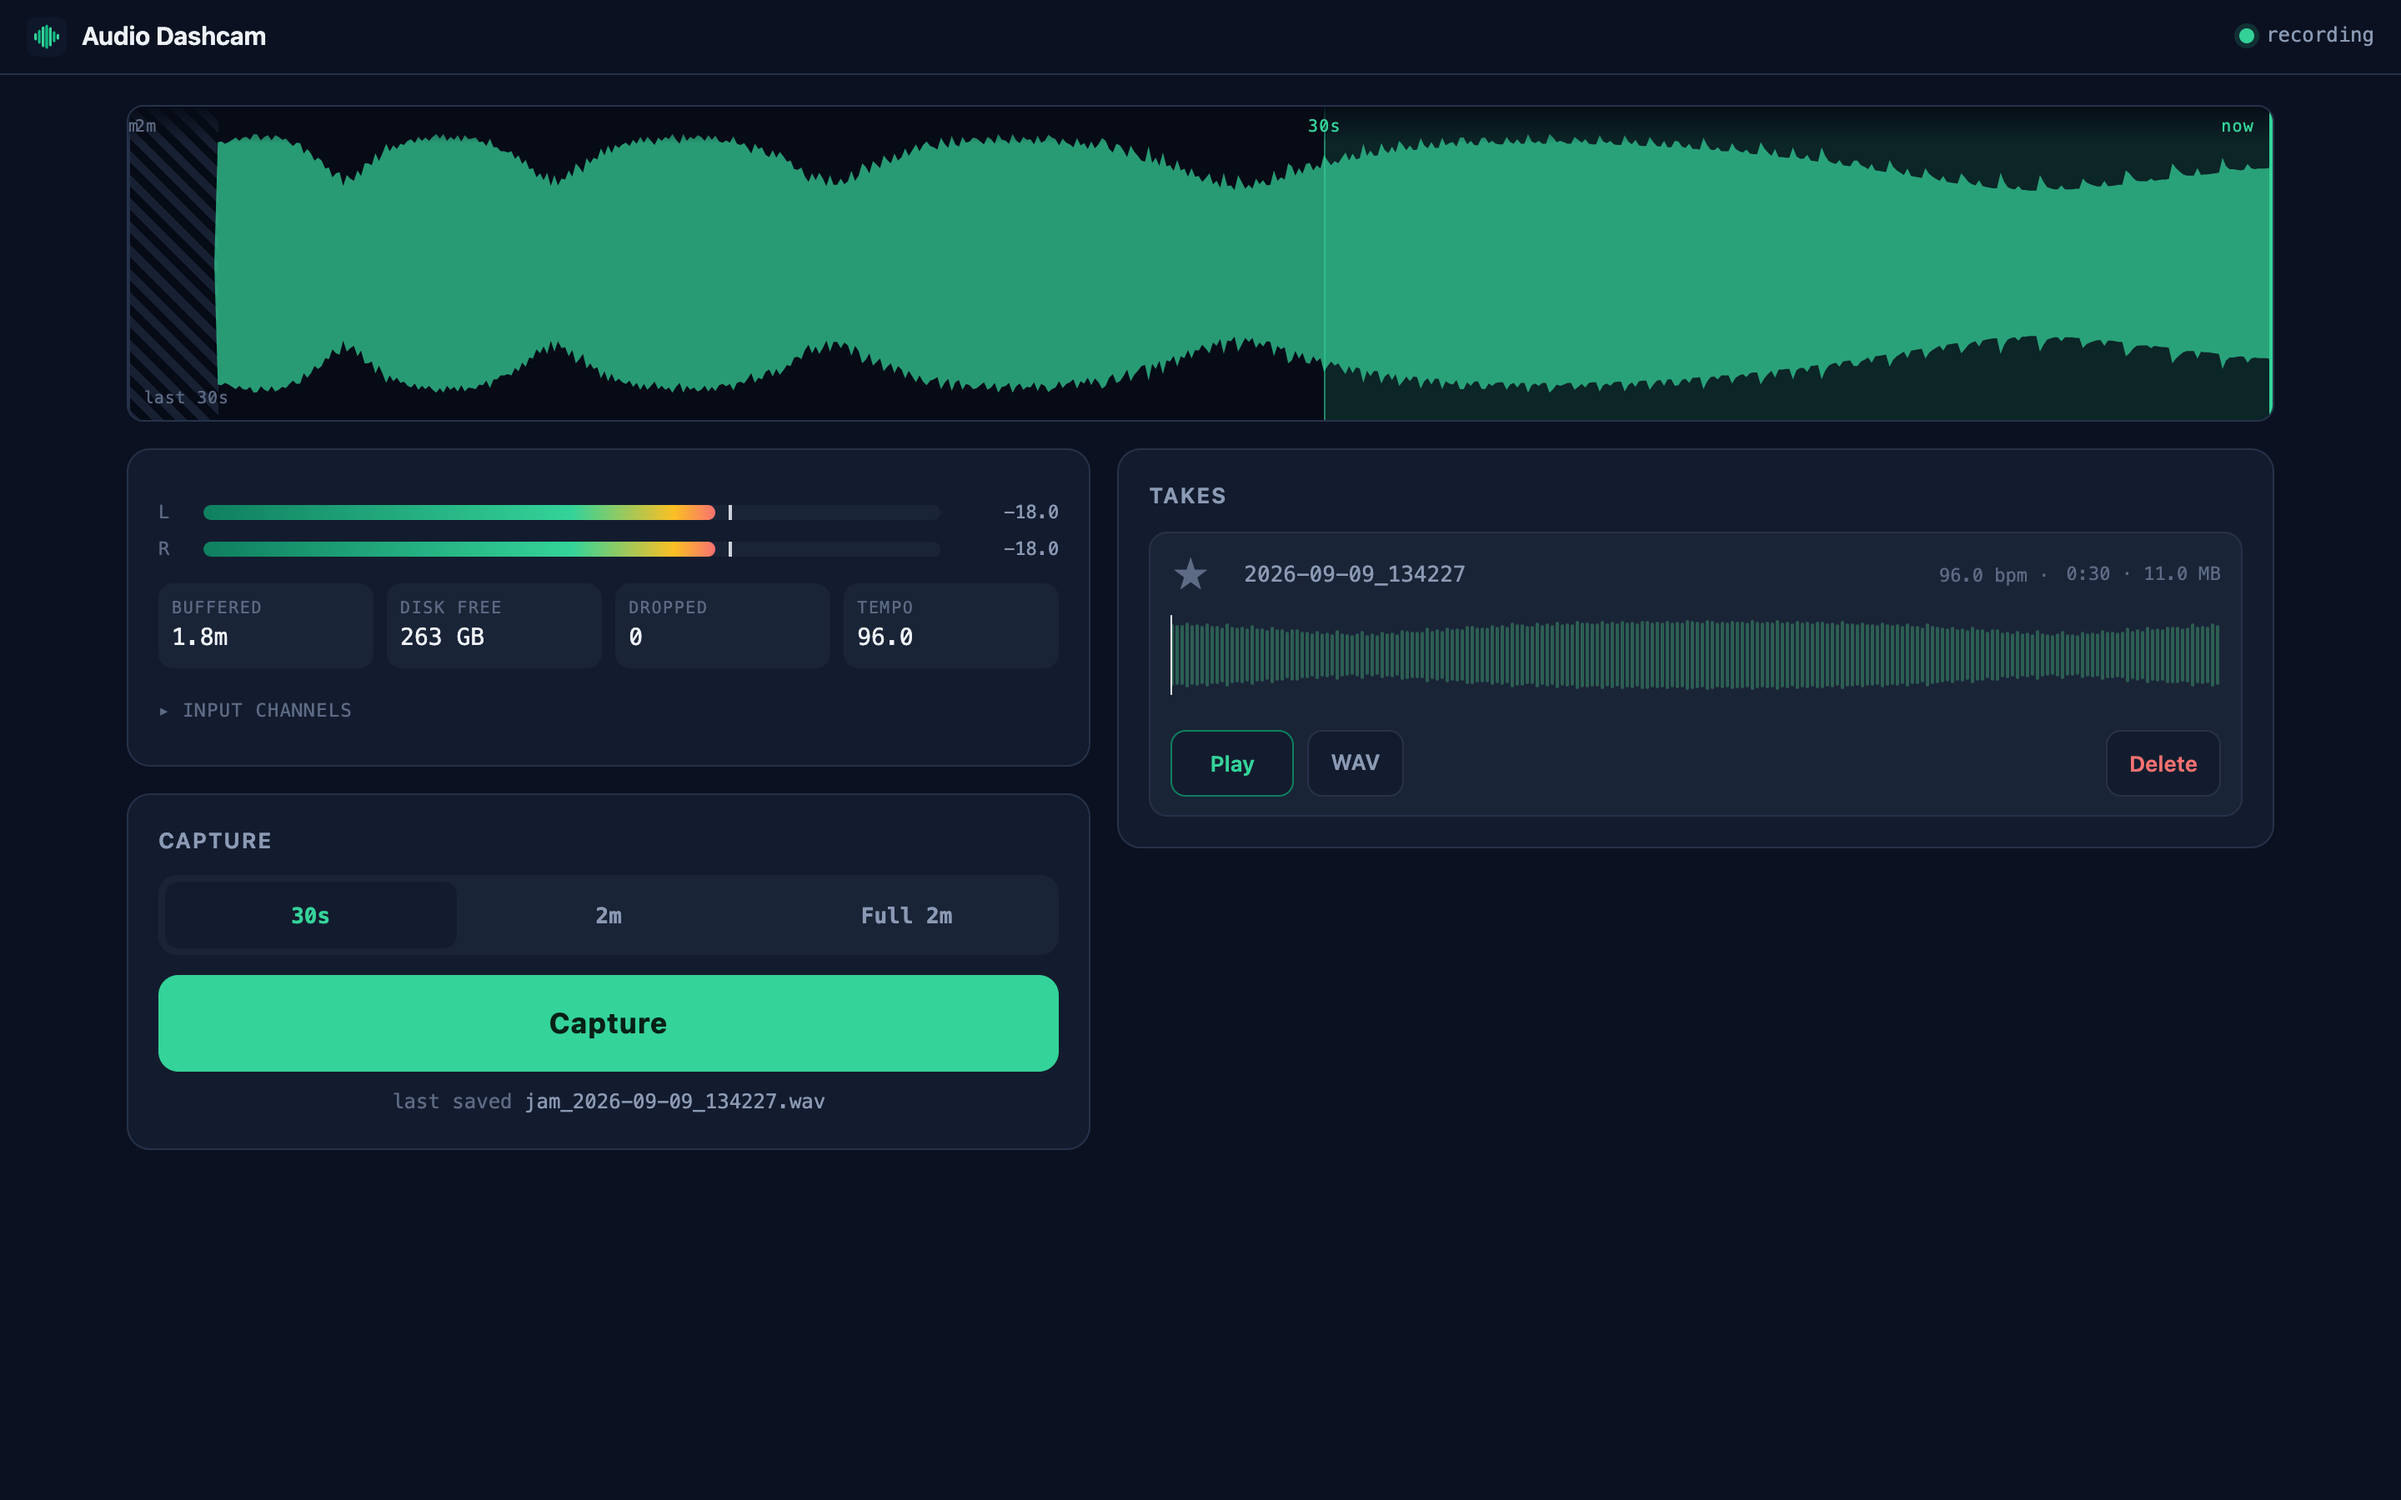
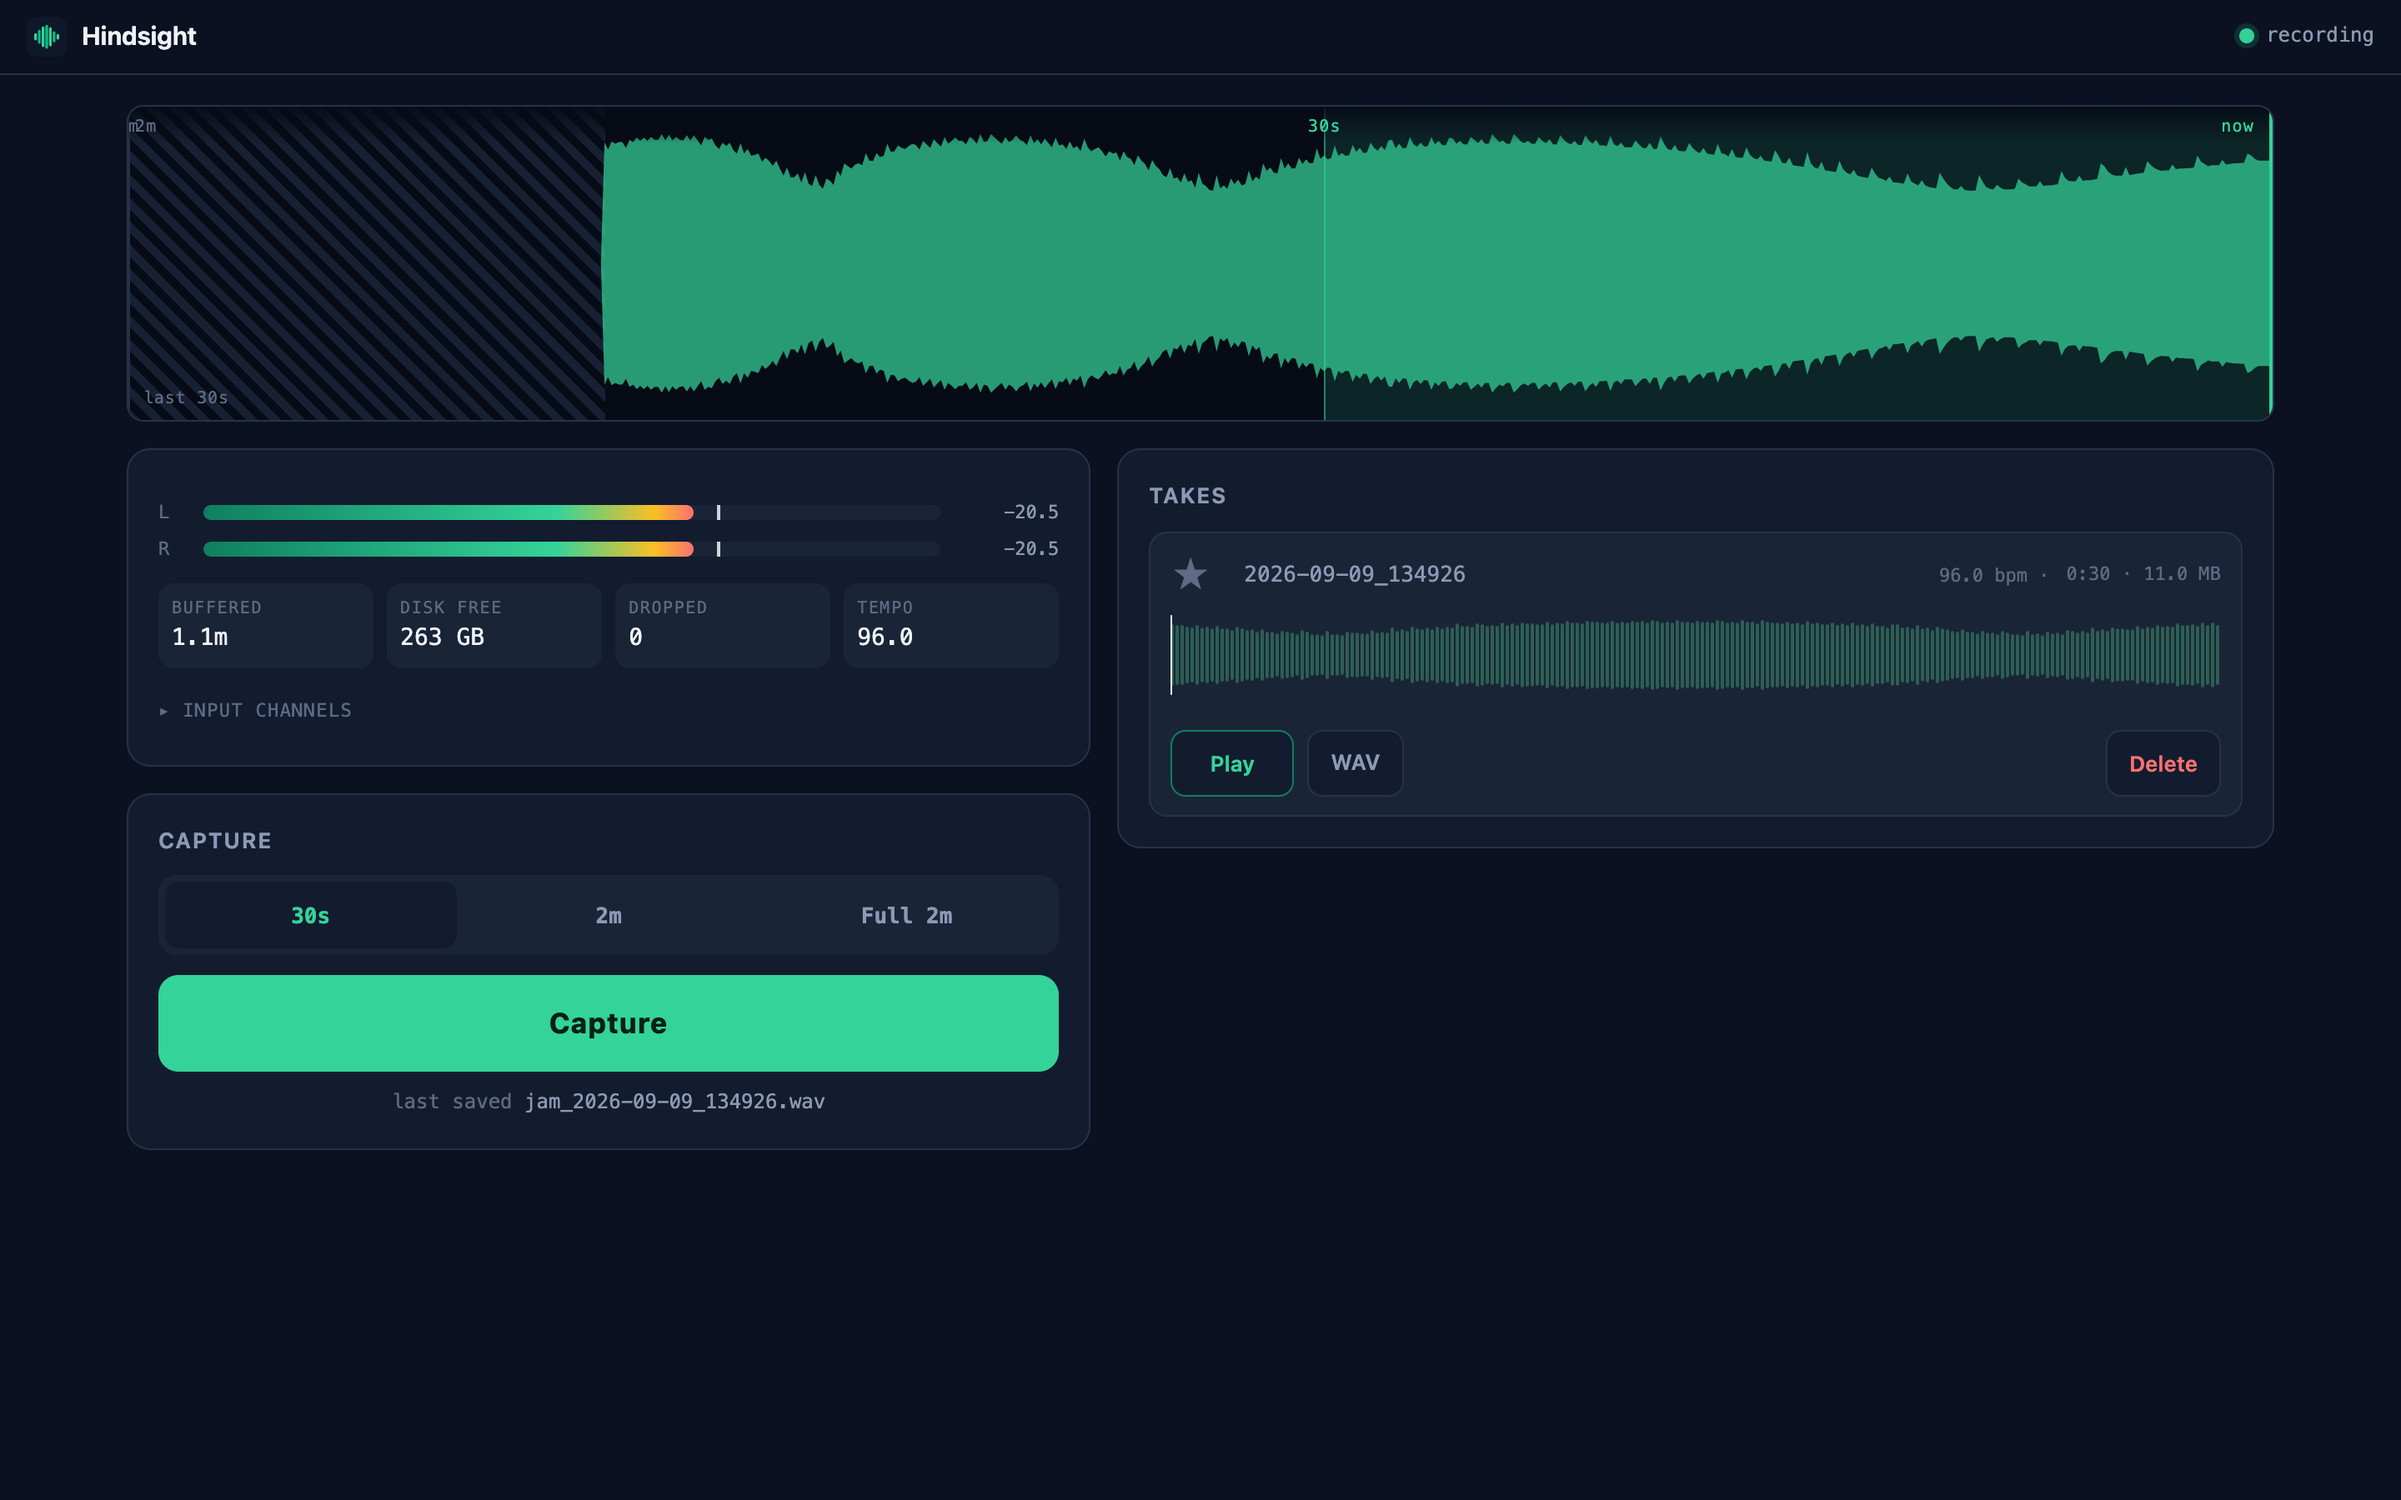
Rename the UI, and retake the screenshots that showed the old name
The rename reached the module, the binary, the unit and the install paths but
never the strings a person actually reads: the header, the tab title, the
home-screen label. The screenshots caught it -- the hero image of a project
called Hindsight said "Audio Dashcam".

The service worker's cache key is reset along with it, deliberately: a phone
with the old shell installed should fetch the new one rather than keep
serving the old branding.

Claude-Session: https://claude.ai/code/session_015NBvK3VetFgPNaB767toLG

diff --git a/web/static/index.html b/web/static/index.html
@@ -3,7 +3,7 @@
 <head>
 <meta charset="utf-8">
 <meta name="viewport" content="width=device-width, initial-scale=1, viewport-fit=cover">
-<title>Audio Dashcam</title>
+<title>Hindsight</title>
 <meta name="description" content="Always-listening audio buffer. Grab the last 30 seconds of the jam.">
 
 <meta name="theme-color" content="#0b1120">
@@ -20,7 +20,7 @@
 <meta name="apple-mobile-web-app-capable" content="yes">
 <meta name="mobile-web-app-capable" content="yes">
 <meta name="apple-mobile-web-app-status-bar-style" content="black-translucent">
-<meta name="apple-mobile-web-app-title" content="Dashcam">
+<meta name="apple-mobile-web-app-title" content="Hindsight">
 
 <link rel="stylesheet" href="/styles.css">
 </head>
@@ -29,7 +29,7 @@
 <header class="topbar">
   <div class="brand">
     <img src="/icons/icon-192.png" alt="">
-    <b>Audio Dashcam</b>
+    <b>Hindsight</b>
   </div>
   <div class="health">
     <!-- Shown only while a screen wake lock is actually held. Icon-only on

diff --git a/web/static/sw.js b/web/static/sw.js
@@ -1,4 +1,4 @@
-// Offline shell for the dashcam UI.
+// Offline shell for the Hindsight UI.
 //
 // Only ever registered in a secure context (see app.js). Caching is a
 // convenience for the app shell — the recordings and the live stream come from
@@ -6,7 +6,11 @@
 
 // Bump this whenever SHELL changes: addAll is atomic, so a stale install
 // listing a file that no longer exists would fail to precache entirely.
-const CACHE = 'dashcam-shell-v3';
+//
+// Renamed from 'dashcam-shell-v3' along with the product: this deliberately
+// invalidates the old cache, so a phone with the old app shell installed
+// fetches the new one rather than keep serving a UI branded with the old name.
+const CACHE = 'hindsight-shell-v1';
 const SHELL = [
   '/',
   '/index.html',

diff --git a/web/static/styles.css b/web/static/styles.css
@@ -1,4 +1,4 @@
-/* Audio Dashcam — mobile-first.
+/* Hindsight — mobile-first.
    No webfonts: this device is often on a LAN with no route to the internet,
    and a blocking @import would stall first paint. */
 

diff --git a/web/static/app.js b/web/static/app.js
@@ -1,4 +1,4 @@
-// Audio Dashcam — app entry.
+// Hindsight — app entry.
 
 import { connectLive } from '/lib/live.js';
 import { Meters, FLOOR_DB, fmtDur } from '/lib/meter.js';
